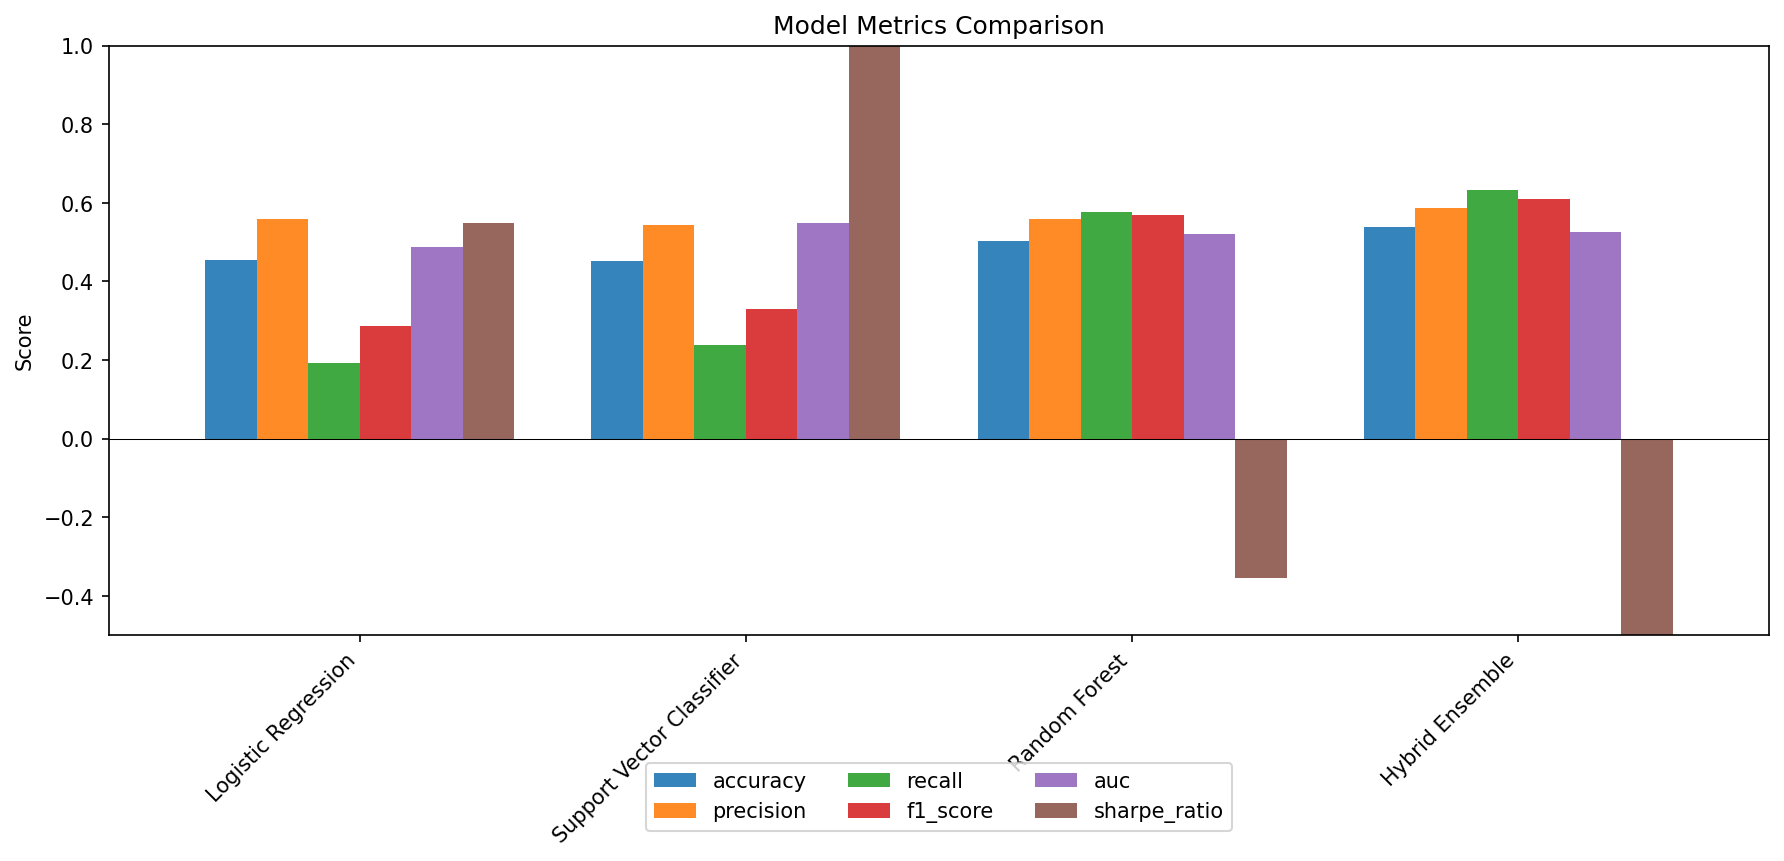
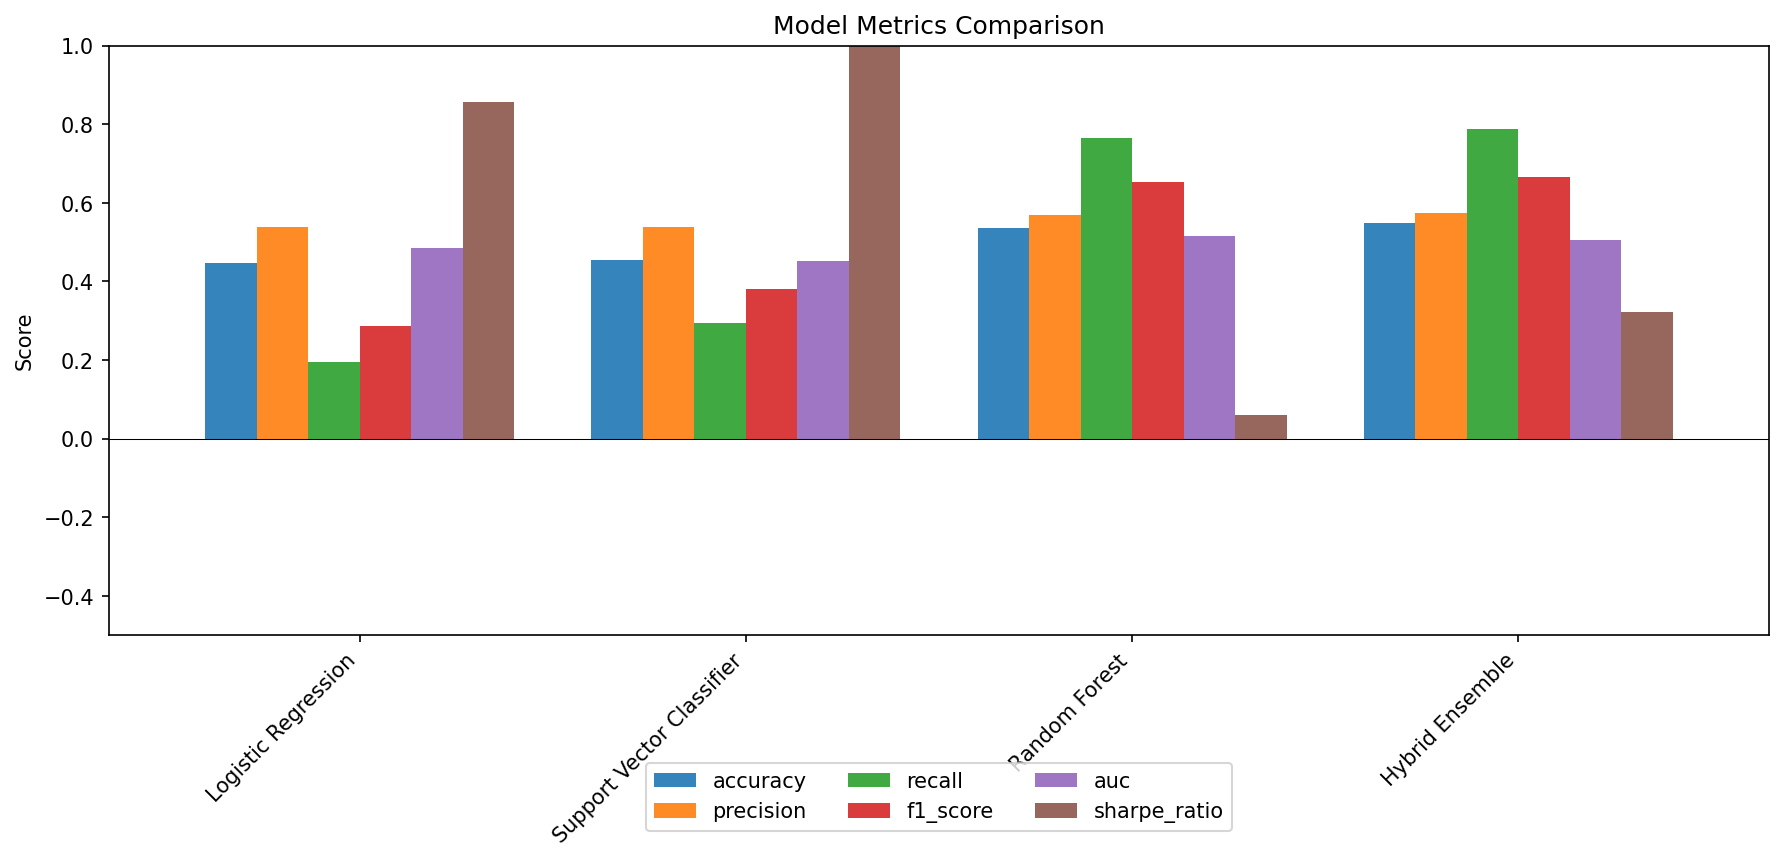
backtest kickstart

diff --git a/services/backtesting.py b/services/backtesting.py
@@ -1,0 +1,222 @@
+import pandas as pd
+import numpy as np
+import matplotlib.pyplot as plt
+from typing import Dict
+import json
+
+class Backtest:
+    """Backtesting engine to compare trading strategies"""
+    
+    def __init__(self, test_df: pd.DataFrame, initial_capital: float = 10000):
+        self.test_df = test_df.copy()
+        self.initial_capital = initial_capital
+        self.strategies = {}
+        
+    def run_all_strategies(self, model_predictions: np.ndarray) -> Dict[str, Dict]:
+        """Run all benchmark strategies and model strategy"""
+        results = {}
+        
+        # Model Strategy
+        results["ML Model"] = self._model_strategy(model_predictions)
+        
+        # Buy and Hold
+        results["Buy & Hold"] = self._buy_and_hold()
+        
+        # Always Long (100% always)
+        results["Always Long"] = self._always_long()
+        
+        # Mean Reversion Strategy
+        results["Mean Reversion"] = self._mean_reversion()
+        
+        # Random Walk
+        results["Random Walk"] = self._random_walk()
+        
+        return results
+    
+    def _model_strategy(self, predictions: np.ndarray) -> Dict:
+        """Strategy based on ML model predictions"""
+        returns = self.test_df["return"].values
+        
+        # If prediction is 1 (up): stay invested, else cash
+        strategy_returns = np.where(predictions == 1, returns, 0)
+        
+        return self._calculate_metrics(strategy_returns)
+    
+    def _buy_and_hold(self) -> Dict:
+        """Buy on day 1 and hold until the end"""
+        returns = self.test_df["return"].values
+        strategy_returns = returns  # Hold entire period
+        
+        return self._calculate_metrics(strategy_returns)
+    
+    def _always_long(self) -> Dict:
+        """Always 100% invested (same as buy and hold for long-only)"""
+        returns = self.test_df["return"].values
+        strategy_returns = returns
+        
+        return self._calculate_metrics(strategy_returns)
+    
+    def _mean_reversion(self) -> Dict:
+        """Buy when price < 20-day SMA, sell when price > SMA"""
+        prices = self.test_df["close"].values
+        returns = self.test_df["return"].values
+        
+        # Calculate 20-day SMA
+        sma_20 = self.test_df["close"].rolling(window=20).mean().values
+        
+        # Signal: 1 if price < SMA (buy), 0 otherwise (stay in cash)
+        signals = (prices < sma_20).astype(int)
+        
+        strategy_returns = np.where(signals == 1, returns, 0)
+        
+        return self._calculate_metrics(strategy_returns)
+    
+    def _random_walk(self) -> Dict:
+        """Random 50/50 buy or sell signals"""
+        np.random.seed(42)  # For reproducibility
+        returns = self.test_df["return"].values
+        
+        # Random signals: 50% chance of being long
+        random_signals = np.random.randint(0, 2, size=len(returns))
+        
+        strategy_returns = np.where(random_signals == 1, returns, 0)
+        
+        return self._calculate_metrics(strategy_returns)
+    
+    def _calculate_metrics(self, strategy_returns: np.ndarray) -> Dict:
+        """Calculate performance metrics for a strategy"""
+        
+        # Cumulative returns
+        cumulative_returns = np.cumprod(1 + strategy_returns) - 1
+        total_return = cumulative_returns[-1]
+        
+        # Daily equity curve
+        equity_curve = self.initial_capital * (1 + cumulative_returns)
+        
+        # Sharpe Ratio (annualized)
+        if np.std(strategy_returns) > 0:
+            sharpe = np.mean(strategy_returns) / np.std(strategy_returns) * np.sqrt(252)
+        else:
+            sharpe = 0.0
+        
+        # Max Drawdown
+        running_max = np.maximum.accumulate(equity_curve)
+        drawdown = (equity_curve - running_max) / running_max
+        max_drawdown = np.min(drawdown)
+        
+        # Win Rate
+        win_rate = np.sum(strategy_returns > 0) / len(strategy_returns) if len(strategy_returns) > 0 else 0
+        
+        # Cumulative return
+        cum_ret = equity_curve[-1] - self.initial_capital
+        
+        return {
+            "total_return": float(total_return),
+            "sharpe_ratio": float(sharpe),
+            "max_drawdown": float(max_drawdown),
+            "win_rate": float(win_rate),
+            "final_equity": float(equity_curve[-1]),
+            "equity_curve": equity_curve,
+            "daily_returns": strategy_returns
+        }
+    
+    def plot_backtest_results(self, backtest_results: Dict, output_dir: str) -> None:
+        """Plot backtest results comparison"""
+        
+        # Prepare data for plotting
+        dates = self.test_df["date"].values
+        equity_curves = {name: data["equity_curve"] for name, data in backtest_results.items()}
+        
+        # Plot 1: Equity Curves
+        fig, (ax1, ax2) = plt.subplots(2, 1, figsize=(14, 10))
+        
+        # Equity curves over time
+        for strategy_name, equity_curve in equity_curves.items():
+            ax1.plot(dates, equity_curve, label=strategy_name, linewidth=2, alpha=0.8)
+        
+        ax1.set_title("Backtest: Equity Curve Comparison (Last 10 Years)", fontsize=14, fontweight='bold')
+        ax1.set_xlabel("Date")
+        ax1.set_ylabel("Equity ($)")
+        ax1.legend(loc='best', fontsize=10)
+        ax1.grid(True, alpha=0.3)
+        ax1.axhline(y=self.initial_capital, color='black', linestyle='--', alpha=0.5, label='Initial Capital')
+        
+        # Plot 2: Performance Metrics
+        metrics_names = ["total_return", "sharpe_ratio", "max_drawdown", "win_rate"]
+        metrics_data = {strategy: [] for strategy in backtest_results.keys()}
+        
+        for metric_name in metrics_names:
+            for strategy_name, data in backtest_results.items():
+                metrics_data[strategy_name].append(data[metric_name])
+        
+        # Create a summary table
+        metrics_df = pd.DataFrame(metrics_data, index=metrics_names).T
+        
+        # Plot metrics as bars
+        x = np.arange(len(metrics_df.index))
+        width = 0.15
+        
+        for i, col in enumerate(metrics_df.columns):
+            offset = width * (i - len(metrics_df.columns) / 2)
+            ax2.bar(x + offset, metrics_df[col], width, label=col, alpha=0.8)
+        
+        ax2.set_xlabel("Strategy")
+        ax2.set_ylabel("Score")
+        ax2.set_title("Performance Metrics Comparison", fontsize=14, fontweight='bold')
+        ax2.set_xticks(x)
+        ax2.set_xticklabels(metrics_df.index, rotation=45, ha='right')
+        ax2.legend(loc='best', fontsize=9)
+        ax2.grid(True, alpha=0.3, axis='y')
+        ax2.axhline(y=0, color='black', linestyle='-', linewidth=0.5)
+        
+        plt.tight_layout()
+        plt.savefig(f"{output_dir}/backtest_comparison.png", dpi=150, bbox_inches='tight')
+        plt.close()
+        
+        # Plot 3: Drawdown Analysis
+        fig, ax = plt.subplots(figsize=(14, 6))
+        
+        for strategy_name, equity_curve in equity_curves.items():
+            running_max = np.maximum.accumulate(equity_curve)
+            drawdown = (equity_curve - running_max) / running_max * 100
+            ax.plot(dates, drawdown, label=strategy_name, linewidth=2, alpha=0.8)
+        
+        ax.set_title("Drawdown Analysis Over Time", fontsize=14, fontweight='bold')
+        ax.set_xlabel("Date")
+        ax.set_ylabel("Drawdown (%)")
+        ax.legend(loc='best', fontsize=10)
+        ax.grid(True, alpha=0.3)
+        ax.fill_between(dates, 0, -100, alpha=0.1, color='red')
+        
+        plt.tight_layout()
+        plt.savefig(f"{output_dir}/drawdown_analysis.png", dpi=150, bbox_inches='tight')
+        plt.close()
+    
+    def save_backtest_summary(self, backtest_results: Dict, output_dir: str) -> None:
+        """Save backtest results to JSON"""
+        
+        summary = {}
+        for strategy_name, metrics in backtest_results.items():
+            summary[strategy_name] = {
+                "total_return": float(metrics["total_return"]),
+                "sharpe_ratio": float(metrics["sharpe_ratio"]),
+                "max_drawdown": float(metrics["max_drawdown"]),
+                "win_rate": float(metrics["win_rate"]),
+                "final_equity": float(metrics["final_equity"])
+            }
+        
+        with open(f"{output_dir}/backtest_summary.json", 'w') as f:
+            json.dump(summary, f, indent=2)
+        
+        # Print summary to console
+        print("\n" + "="*70)
+        print("BACKTEST SUMMARY - STRATEGY COMPARISON")
+        print("="*70)
+        for strategy_name, metrics in summary.items():
+            print(f"\n{strategy_name}:")
+            print(f"  Total Return: {metrics['total_return']*100:.2f}%")
+            print(f"  Sharpe Ratio: {metrics['sharpe_ratio']:.4f}")
+            print(f"  Max Drawdown: {metrics['max_drawdown']*100:.2f}%")
+            print(f"  Win Rate: {metrics['win_rate']*100:.2f}%")
+            print(f"  Final Equity: ${metrics['final_equity']:.2f}")
+        print("="*70 + "\n")

diff --git a/services/pipeline.py b/services/pipeline.py
@@ -9,6 +9,7 @@ from sklearn.metrics import accuracy_score, precision_score, recall_score, f1_sc
 from services.transform import FeatureEngineer
 from services.algorithms.base import Algorithm
 from services.stock import Stock
+from services.backtesting import Backtest
 
 class Pipeline:
     def __init__(
@@ -37,15 +38,32 @@ class Pipeline:
         train_df, test_df = self._split(dataset)
         
         results = {}
+        best_model = None
+        best_model_name = None
+        best_sharpe = -np.inf
+        
         for algo in self.algorithms:
             print(f"Training {algo.name()}...")
             algo.fit(train_df, pd.DataFrame(), feature_cols, target_col)
             metrics = self._evaluate(algo, test_df, feature_cols, target_col)
             results[algo.name()] = metrics
+            
+            # Track best model by Sharpe Ratio
+            if metrics["sharpe_ratio"] > best_sharpe:
+                best_sharpe = metrics["sharpe_ratio"]
+                best_model = algo
+                best_model_name = algo.name()
 
         if save:
             self._save_json(results)
             self._plot_metrics_comparison(results)
+            
+            # Run backtesting with best model
+            if best_model is not None:
+                print(f"\n{'='*70}")
+                print(f"Running backtesting with best model: {best_model_name}")
+                print(f"{'='*70}")
+                self._run_backtest(best_model, test_df, feature_cols)
             
         return results
 
@@ -114,3 +132,21 @@ class Pipeline:
         plt.tight_layout()
         plt.savefig(self.output_dir / "metrics_comparison.png", dpi=150, bbox_inches='tight')
         plt.close()
+    
+    def _run_backtest(self, best_algo: Algorithm, test_df: pd.DataFrame, features: list[str]) -> None:
+        """Run backtest comparing model with benchmark strategies"""
+        
+        # Get predictions from best model
+        y_pred = best_algo.predict(test_df, features)
+        
+        # Initialize backtest engine
+        backtest = Backtest(test_df, initial_capital=10000)
+        
+        # Run all strategies
+        backtest_results = backtest.run_all_strategies(y_pred)
+        
+        # Save results
+        backtest.save_backtest_summary(backtest_results, str(self.output_dir))
+        
+        # Plot results
+        backtest.plot_backtest_results(backtest_results, str(self.output_dir))

diff --git a/main.py b/main.py
@@ -1,10 +1,10 @@
 from datetime import datetime, timezone
 from services.stock import Stock
 from services.pipeline import Pipeline
-from services.algorithms.logistic_regression import LogisticRegressionAlgorithm
 from services.algorithms.svc import SVCAlgorithm
 from services.algorithms.random_forest import RandomForestAlgorithm
 from services.algorithms.ensemble import EnsembleClassificationAlgorithm
+from services.algorithms.logistic_regression import LogisticRegressionAlgorithm
 
 if __name__ == "__main__":
     ticker = "SPY"
@@ -20,7 +20,7 @@ if __name__ == "__main__":
         RandomForestAlgorithm(),
         EnsembleClassificationAlgorithm()
     ]
-    
+
     print("\n============================================================")
     print("INICIANDO PIPELINE DE CLASSIFICAÇÃO COM ENSEMBLE LEARNING")
     print("============================================================")
@@ -39,14 +39,8 @@ if __name__ == "__main__":
     print("PIPELINE CONCLUÍDO. RESULTADOS SALVOS NO DIRETÓRIO 'output/'")
     print("============================================================")
 
-"""Make backtest"""
-"""Parameter tuning"""
+"""Manage multiple stocks, weighting, portfolio-level metrics"""
 """Test different sharpe strategies"""
 """Test different algorithms (possible deep learning ? LSTM, CNN, GRU, XGBoost, etc.)"""
-"""Compare to different strategies:
-- Buy and Hold
-- Random Walk
-- Always Long
-- Mean strategy
-"""
-"""Manage multiple stocks, weighting, portfolio-level metrics"""
+"""Parameter tuning"""
+"""Understand what is happening in backtest"""
